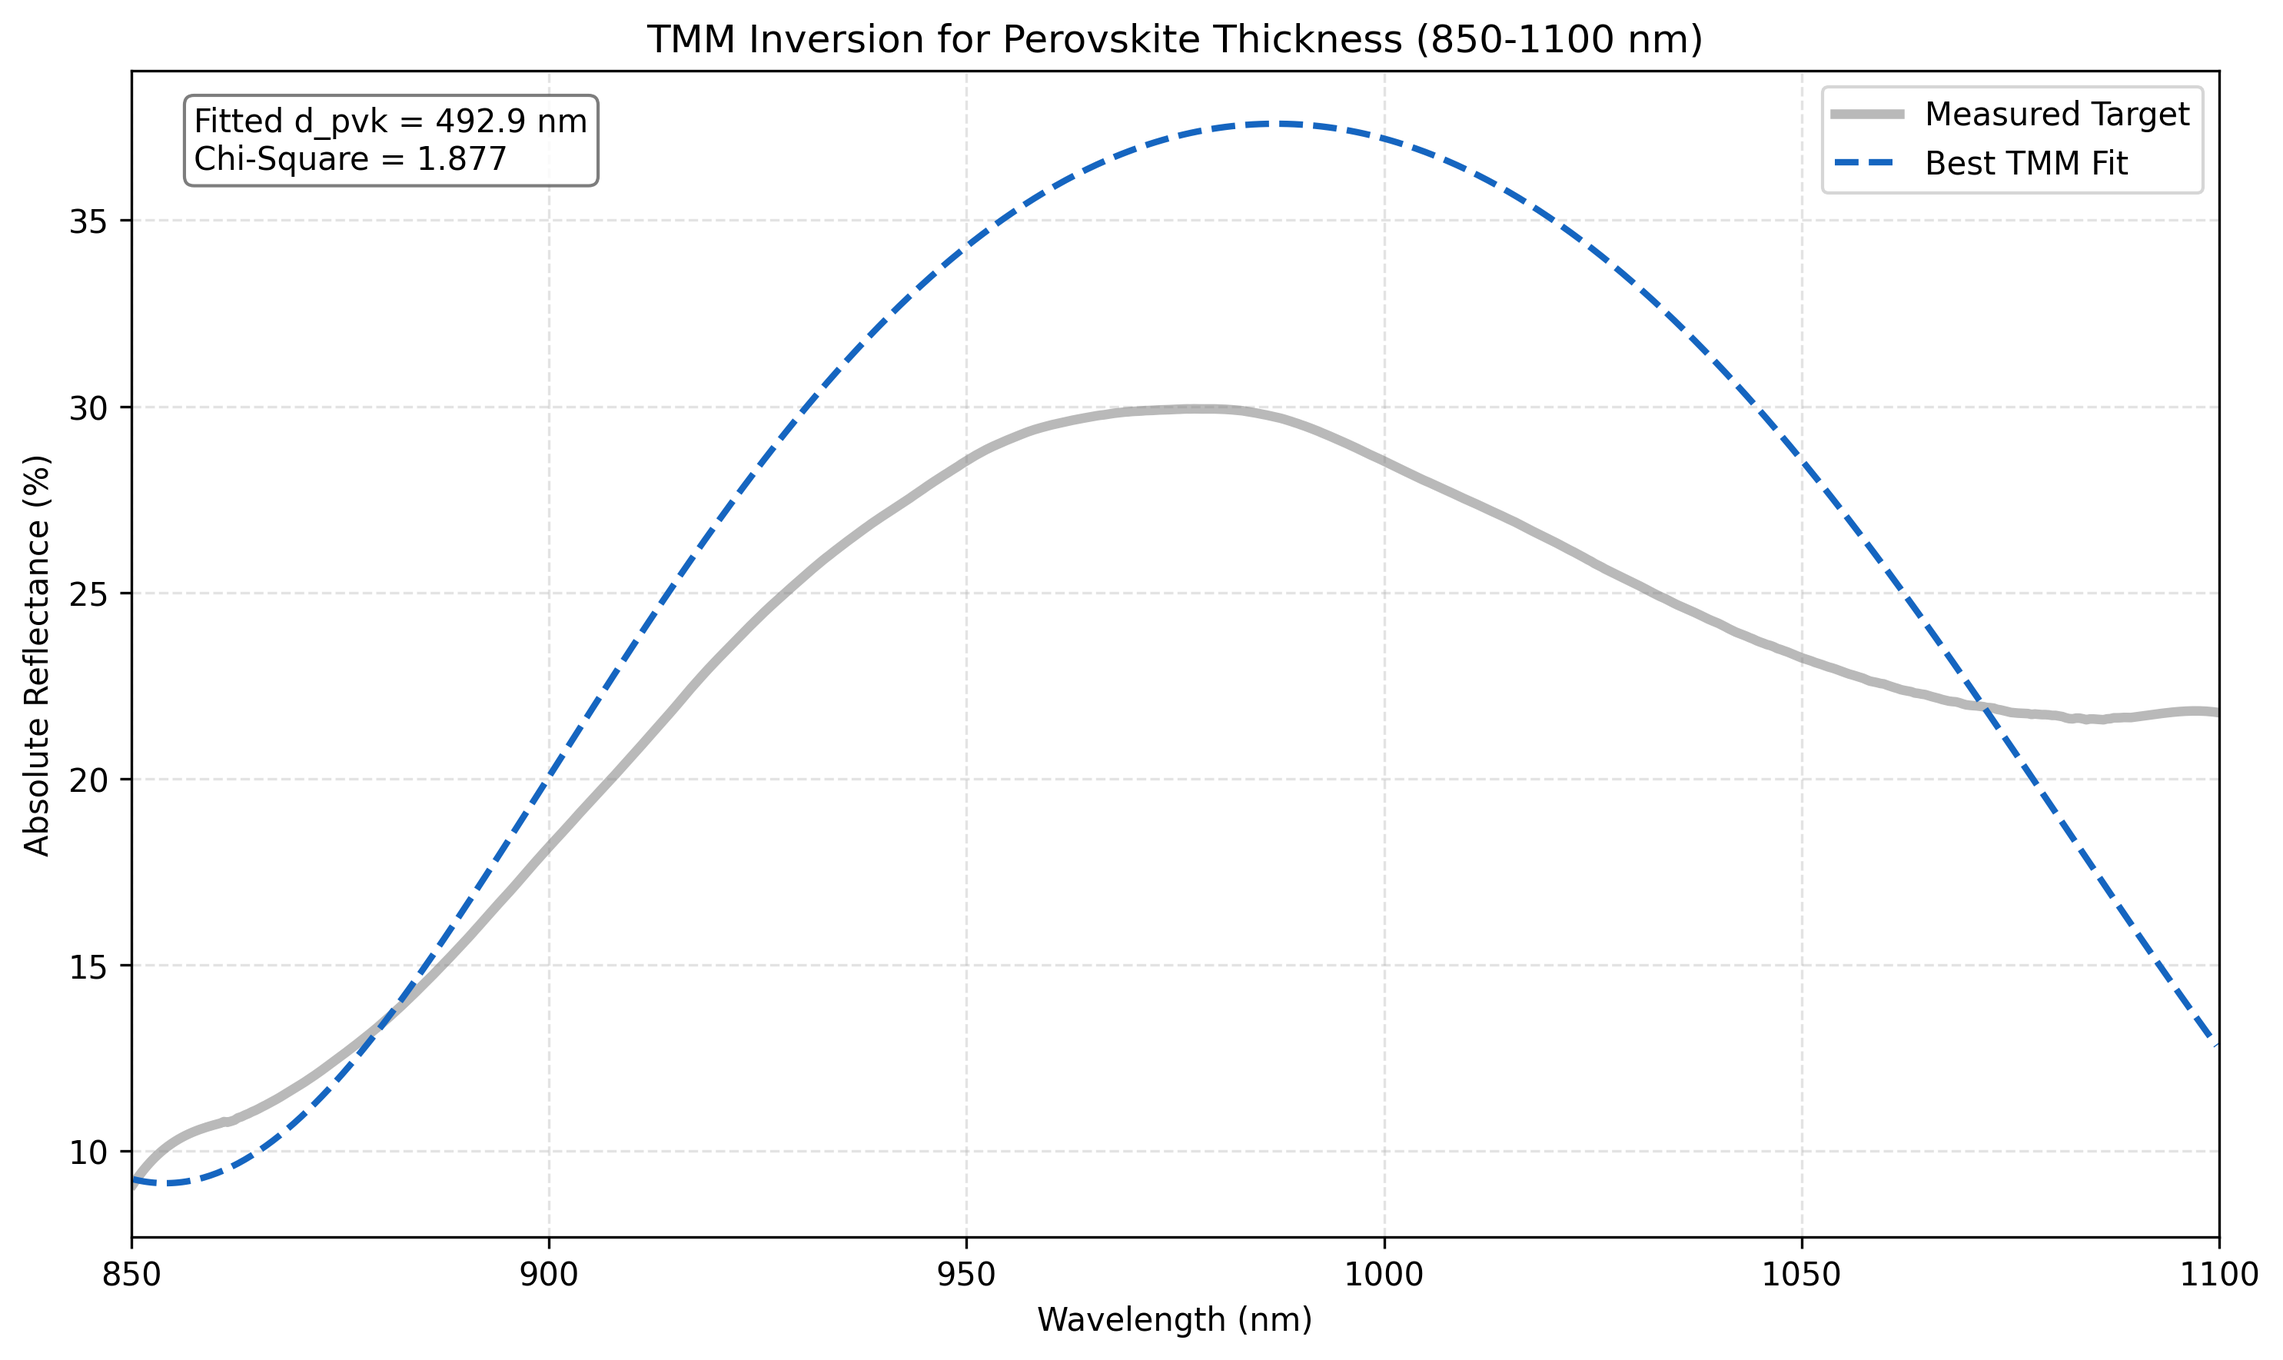
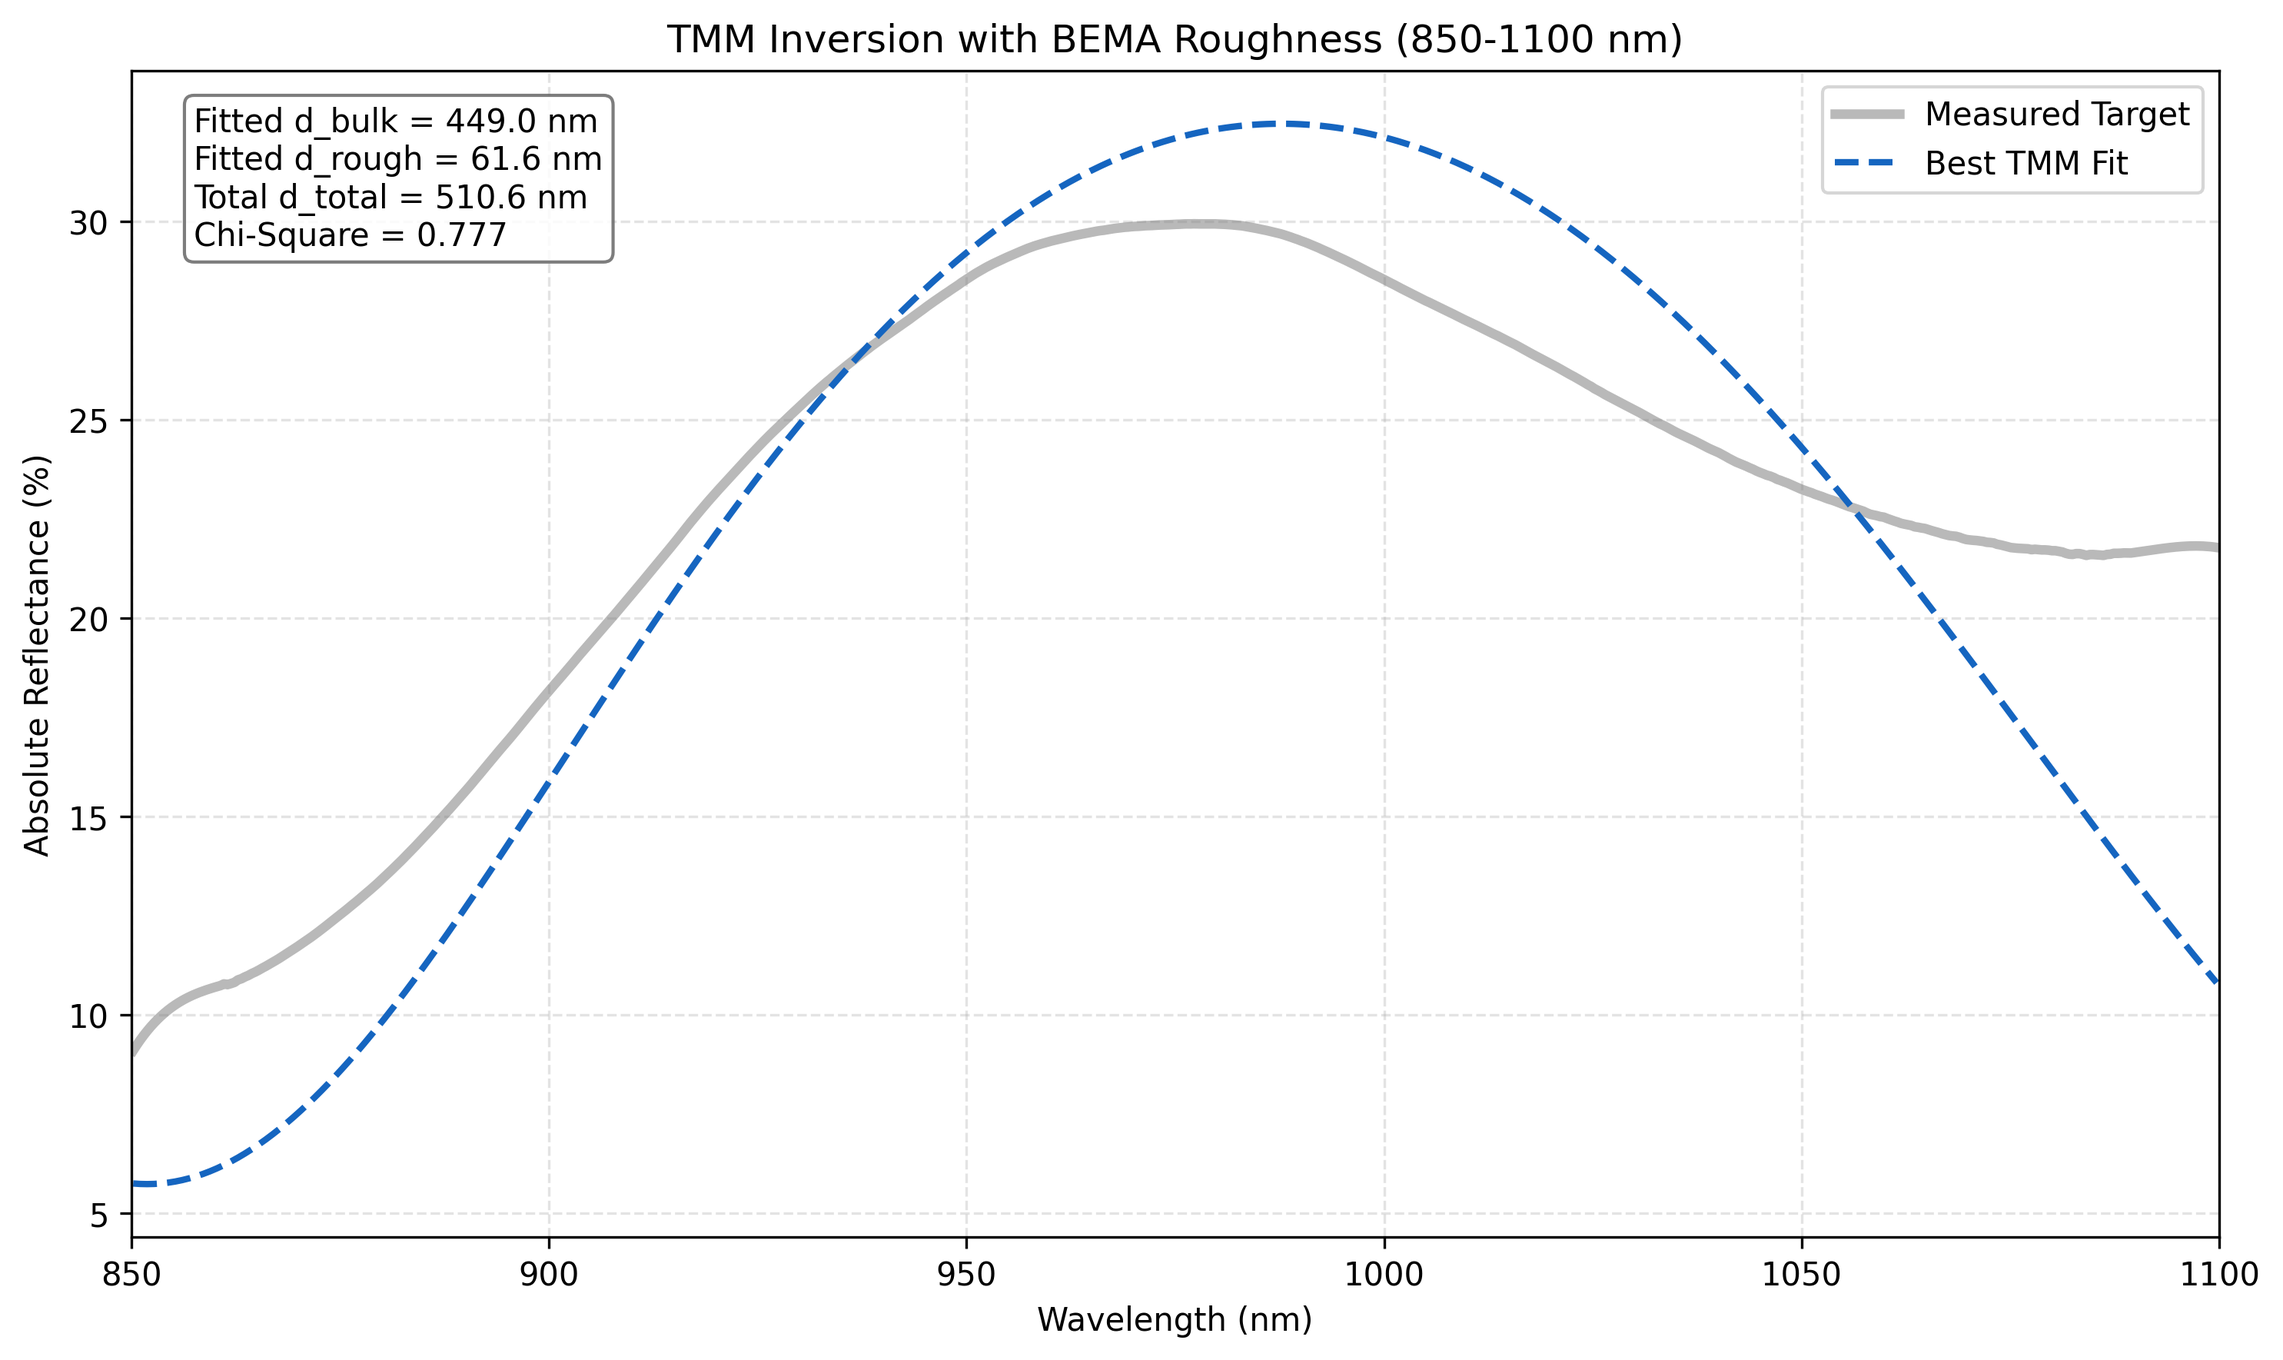
[Phase 02] 引入BEMA粗糙层并升级双参数反演

diff --git a/src/scripts/step02_tmm_inversion.py b/src/scripts/step02_tmm_inversion.py
@@ -7,9 +7,10 @@
 1. 目标曲线读取
 2. ITO 色散解析与插值
 3. PVK 外推 n-k 中间件加载与插值
-4. 厚玻璃非相干修正 + 相干薄膜 TMM
-5. lmfit 单参数厚度反演
-6. 结果绘图
+4. BEMA 表面粗糙度修正
+5. 厚玻璃非相干修正 + 相干薄膜 TMM
+6. lmfit 双参数厚度反演
+7. 结果绘图
 """
 
 from __future__ import annotations
@@ -40,9 +41,12 @@ SAM_THICKNESS_NM = 2.0
 NIOX_NK = 2.1 + 0.0j
 SAM_NK = 1.8 + 0.0j
 
-INITIAL_PVK_THICKNESS_NM = 500.0
-MIN_PVK_THICKNESS_NM = 400.0
-MAX_PVK_THICKNESS_NM = 650.0
+INITIAL_PVK_BULK_THICKNESS_NM = 480.0
+MIN_PVK_BULK_THICKNESS_NM = 400.0
+MAX_PVK_BULK_THICKNESS_NM = 650.0
+INITIAL_PVK_ROUGHNESS_THICKNESS_NM = 20.0
+MIN_PVK_ROUGHNESS_THICKNESS_NM = 0.0
+MAX_PVK_ROUGHNESS_THICKNESS_NM = 80.0
 
 
 def get_project_root() -> Path:
@@ -336,15 +340,27 @@ def build_pvk_interpolator(
     return get_pvk_nk
 
 
+def calc_bema_rough_nk(bulk_nk: np.ndarray) -> np.ndarray:
+    """计算 50/50 PVK-Air Bruggeman EMA 粗糙层复折射率。"""
+    eps1 = np.asarray(bulk_nk, dtype=np.complex128) ** 2
+    eps2 = 1.0 + 0.0j
+    b_term = 0.5 * (eps1 + eps2)
+    eps_eff = 0.5 * (b_term + np.sqrt(b_term**2 + 2.0 * eps1 * eps2))
+    return np.sqrt(eps_eff)
+
+
 def calc_macro_reflectance(
-    d_pvk_nm: float,
+    d_bulk_nm: float,
+    d_rough_nm: float,
     wavelength_nm: np.ndarray,
     get_ito_nk: Callable[[np.ndarray], np.ndarray],
     get_pvk_nk: Callable[[np.ndarray], np.ndarray],
 ) -> np.ndarray:
     """计算包含厚玻璃非相干修正的宏观反射率。
 
-    真实样品结构是 Air -> 1.1 mm Glass -> ITO -> NiOx -> SAM -> PVK -> Air。
+    真实样品结构是：
+    Air -> 1.1 mm Glass -> ITO -> NiOx -> SAM -> PVK_Bulk -> PVK_Roughness -> Air。
+
     关键点在于：1.1 mm 玻璃厚板绝不能直接放进相干 TMM 相位矩阵。
 
     原因是：
@@ -358,7 +374,8 @@ def calc_macro_reflectance(
     """
     wavelength = np.asarray(wavelength_nm, dtype=float)
     ito_nk = get_ito_nk(wavelength)
-    pvk_nk = get_pvk_nk(wavelength)
+    pvk_bulk_nk = get_pvk_nk(wavelength)
+    pvk_rough_nk = calc_bema_rough_nk(pvk_bulk_nk)
 
     r_coh = np.empty_like(wavelength, dtype=float)
 
@@ -368,10 +385,19 @@ def calc_macro_reflectance(
             ito_nk[index],
             NIOX_NK,
             SAM_NK,
-            pvk_nk[index],
+            pvk_bulk_nk[index],
+            pvk_rough_nk[index],
             AIR_INDEX + 0.0j,
         ]
-        d_list = [np.inf, ITO_THICKNESS_NM, NIOX_THICKNESS_NM, SAM_THICKNESS_NM, d_pvk_nm, np.inf]
+        d_list = [
+            np.inf,
+            ITO_THICKNESS_NM,
+            NIOX_THICKNESS_NM,
+            SAM_THICKNESS_NM,
+            d_bulk_nm,
+            d_rough_nm,
+            np.inf,
+        ]
         tmm_result = coh_tmm("s", n_list, d_list, 0.0, wl_nm)
         r_coh[index] = float(tmm_result["R"])
 
@@ -388,8 +414,9 @@ def residual(
     get_pvk_nk: Callable[[np.ndarray], np.ndarray],
 ) -> np.ndarray:
     """lmfit 残差函数。"""
-    d_pvk_nm = params["d_pvk"].value
-    r_model = calc_macro_reflectance(d_pvk_nm, wavelength_nm, get_ito_nk, get_pvk_nk)
+    d_bulk_nm = params["d_bulk"].value
+    d_rough_nm = params["d_rough"].value
+    r_model = calc_macro_reflectance(d_bulk_nm, d_rough_nm, wavelength_nm, get_ito_nk, get_pvk_nk)
     return r_model - r_target
 
 
@@ -397,7 +424,9 @@ def plot_fit_result(
     wavelength_nm: np.ndarray,
     r_target: np.ndarray,
     r_fit: np.ndarray,
-    d_best_nm: float,
+    d_bulk_nm: float,
+    d_rough_nm: float,
+    d_total_nm: float,
     chisqr: float,
     output_path: Path,
 ) -> None:
@@ -421,7 +450,12 @@ def plot_fit_result(
         label="Best TMM Fit",
     )
 
-    textbox = f"Fitted d_pvk = {d_best_nm:.1f} nm\nChi-Square = {chisqr:.3f}"
+    textbox = (
+        f"Fitted d_bulk = {d_bulk_nm:.1f} nm\n"
+        f"Fitted d_rough = {d_rough_nm:.1f} nm\n"
+        f"Total d_total = {d_total_nm:.1f} nm\n"
+        f"Chi-Square = {chisqr:.3f}"
+    )
     ax.text(
         0.03,
         0.97,
@@ -436,7 +470,7 @@ def plot_fit_result(
     ax.set_xlim(WAVELENGTH_MIN_NM, WAVELENGTH_MAX_NM)
     ax.set_xlabel("Wavelength (nm)")
     ax.set_ylabel("Absolute Reflectance (%)")
-    ax.set_title("TMM Inversion for Perovskite Thickness (850-1100 nm)")
+    ax.set_title("TMM Inversion with BEMA Roughness (850-1100 nm)")
     ax.grid(True, linestyle="--", alpha=0.35)
     ax.legend()
 
@@ -467,10 +501,16 @@ def main() -> None:
 
     params = Parameters()
     params.add(
-        "d_pvk",
-        value=INITIAL_PVK_THICKNESS_NM,
-        min=MIN_PVK_THICKNESS_NM,
-        max=MAX_PVK_THICKNESS_NM,
+        "d_bulk",
+        value=INITIAL_PVK_BULK_THICKNESS_NM,
+        min=MIN_PVK_BULK_THICKNESS_NM,
+        max=MAX_PVK_BULK_THICKNESS_NM,
+    )
+    params.add(
+        "d_rough",
+        value=INITIAL_PVK_ROUGHNESS_THICKNESS_NM,
+        min=MIN_PVK_ROUGHNESS_THICKNESS_NM,
+        max=MAX_PVK_ROUGHNESS_THICKNESS_NM,
     )
 
     result = minimize(
@@ -480,8 +520,10 @@ def main() -> None:
         method="leastsq",
     )
 
-    d_best_nm = float(result.params["d_pvk"].value)
-    r_best_fit = calc_macro_reflectance(d_best_nm, wavelength_nm, get_ito_nk, get_pvk_nk)
+    d_bulk_best_nm = float(result.params["d_bulk"].value)
+    d_rough_best_nm = float(result.params["d_rough"].value)
+    d_total_best_nm = d_bulk_best_nm + d_rough_best_nm
+    r_best_fit = calc_macro_reflectance(d_bulk_best_nm, d_rough_best_nm, wavelength_nm, get_ito_nk, get_pvk_nk)
 
     if np.any(~np.isfinite(r_best_fit)):
         raise ValueError("最佳拟合反射率中出现 NaN 或 Inf，说明模型数值计算失败。")
@@ -490,15 +532,19 @@ def main() -> None:
         wavelength_nm=wavelength_nm,
         r_target=r_target,
         r_fit=r_best_fit,
-        d_best_nm=d_best_nm,
+        d_bulk_nm=d_bulk_best_nm,
+        d_rough_nm=d_rough_best_nm,
+        d_total_nm=d_total_best_nm,
         chisqr=float(result.chisqr),
         output_path=output_path,
     )
 
-    print("TMM 厚度反演完成。")
+    print("TMM 双参数厚度反演完成。")
     print(f"目标曲线输入: {target_csv}")
     print(f"反演结果图片: {output_path}")
-    print(f"Fitted d_pvk = {d_best_nm:.3f} nm")
+    print(f"Fitted d_bulk = {d_bulk_best_nm:.3f} nm")
+    print(f"Fitted d_rough = {d_rough_best_nm:.3f} nm")
+    print(f"Fitted d_total = {d_total_best_nm:.3f} nm")
     print(f"Chi-Square = {float(result.chisqr):.6f}")
     print(f"拟合状态: success={result.success}, nfev={result.nfev}")
 

diff --git a/docs/PROJECT_STATE.md b/docs/PROJECT_STATE.md
@@ -10,7 +10,7 @@
 - 当前可用能力：
   - 已有 `step01_absolute_calibration.py`，可将样品与银镜原始计数转换为绝对反射率
   - 已有 `step01b_cauchy_extrapolation.py`，可基于 [LIT-0001] 的 `ITO/CsFAPI` 数字化折射率曲线生成 `750-1100 nm` 的 CsFAPI 扩展 `n-k` 中间件
-  - 已有 `step02_tmm_inversion.py`，可读取目标反射率、ITO 色散和 CsFAPI 扩展 `n-k` 中间件，执行单参数 PVK 厚度反演
+  - 已有 `step02_tmm_inversion.py`，可读取目标反射率、ITO 色散和 CsFAPI 扩展 `n-k` 中间件，执行包含 50/50 BEMA 粗糙度修正的双参数 `d_bulk + d_rough` 反演
   - 已有 `step02_digitize_fapi_optical_constants.py`，可从 `LIT-0001` 的 Fig. 2 原图数字化提取 FAPI 的 `n/κ` 曲线并输出 QA 图
   - 已有 `step02_digitize_csfapi_optical_constants.py`，可从 `LIT-0001` 的 Fig. 3 原图数字化提取 CsFAPI 的 `n/κ` 曲线并输出 QA 图
   - 已产出标准中间文件 `data/processed/target_reflectance.csv` 与 `data/processed/CsFAPI_nk_extended.csv`
@@ -141,7 +141,7 @@ TMM-interference-spectrum/
 ### 4.3 `step02_tmm_inversion.py`
 
 - 文件位置：`src/scripts/step02_tmm_inversion.py`
-- 主要职责：读取 `step01` 输出的目标反射率、ITO 色散和 `step01b` 生成的 CsFAPI 扩展 `n-k` 中间件，执行单参数厚度反演
+- 主要职责：读取 `step01` 输出的目标反射率、ITO 色散和 `step01b` 生成的 CsFAPI 扩展 `n-k` 中间件，执行包含 BEMA 表面粗糙度修正的双参数厚度反演
 
 输入：
 - `data/processed/target_reflectance.csv`
@@ -163,9 +163,11 @@ TMM-interference-spectrum/
 - ITO 厚度固定：`105 nm`
 - NiOx 厚度固定：`20 nm`
 - SAM 厚度固定：`2 nm`
-- PVK 为唯一反演参数
-- PVK 厚度搜索范围：`400-650 nm`
+- PVK 块体厚度 `d_bulk` 搜索范围：`400-650 nm`
+- PVK 表面粗糙层厚度 `d_rough` 搜索范围：`0-80 nm`
 - PVK 采用 `step01b` 生成的 CsFAPI 扩展 `n-k` 中间件，并通过线性插值映射到目标波长网格
+- 粗糙层采用 `50% PVK + 50% Air` 的 Bruggeman EMA 有效介质模型
+- 相干层堆栈为：`Glass -> ITO -> NiOx -> SAM -> PVK_Bulk -> PVK_Roughness -> Air`
 
 核心处理流程：
 - 读取目标绝对反射率
@@ -173,11 +175,12 @@ TMM-interference-spectrum/
 - 解析 ITO 的 `e1/e2` 数据并转为 `n + ik`
 - 构建 ITO 复折射率插值器
 - 构建 PVK 复折射率插值器
+- 根据块体 PVK 复介电常数计算 50/50 BEMA 粗糙层复折射率
 - 计算宏观反射率：
   - 玻璃前表面菲涅尔反射
-  - 玻璃后方薄膜堆栈相干 TMM
+  - 玻璃后方包含粗糙层的薄膜堆栈相干 TMM
   - 再按非相干强度级联公式合成总反射率
-- 使用 `lmfit` 的 `leastsq` 做单参数厚度反演
+- 使用 `lmfit` 的 `leastsq` 做双参数厚度反演
 - 输出最佳拟合图
 
 输出：
@@ -229,7 +232,7 @@ resources/digitized/phase02_fig3_csfapi_optical_constants_digitized.csv
 data/processed/target_reflectance.csv
 data/processed/CsFAPI_nk_extended.csv
 resources/ITO_20 Ohm_105 nm_e1e2.mat
-    -> step02_tmm_inversion.py
+    -> step02_tmm_inversion.py (CsFAPI 扩展 n-k -> BEMA 粗糙层修正 -> d_bulk + d_rough 双参数反演)
     -> results/figures/tmm_inversion_result.png
 
 reference/Khan.../images/b3c499f799...
@@ -246,8 +249,8 @@ reference/Khan.../images/885e29d3...
 
 1. `step01` 负责把原始计数校准成可用于物理建模的绝对反射率
 2. `step01b` 把 [LIT-0001] 数字化 CsFAPI 曲线转换成标准近红外 `n-k` 中间件
-3. `step02` 只消费标准中间文件，不再在脚本内部硬编码 PVK 常数折射率
-4. 当前脚本链已经具备“测量数据 -> 标准中间数据 + 文献外推中间数据 -> TMM 反演图表”的最小闭环
+3. `step02` 在消费标准 `n-k` 中间件后，进一步通过 50/50 BEMA 将 PVK-Air 表面粗糙度折算为有效介质层
+4. 当前脚本链已经具备“测量数据 -> 标准中间数据 + 文献外推中间数据 -> BEMA 修正 TMM 双参数反演图表”的最小闭环
 
 ## 6. Key Physical / Numerical Assumptions
 
@@ -260,7 +263,8 @@ reference/Khan.../images/885e29d3...
 - PVK 的近红外色散来源为 [LIT-0001] Fig. 3 的 `ITO/CsFAPI` 数字化 `n` 曲线，并通过 Cauchy 模型外推到 `1100 nm`
 - `750-1100 nm` 内强制采用 `k = 0`
 - `1000-1100 nm` 属于超出原始椭偏测量窗口的模型外推区
-- 反演当前仅对 `d_pvk` 一个参数进行拟合
+- 粗糙层采用 `50% PVK + 50% Air` 的 BEMA 有效介质
+- 反演当前同时拟合 `d_bulk` 与 `d_rough` 两个参数
 
 这些假设是理解结果与后续扩展的关键锚点；若后续有改动，必须同步更新本文件。
 
@@ -293,13 +297,13 @@ reference/Khan.../images/885e29d3...
 ### 7.3 当前反演模型参数自由度较低
 
 - 表现：
-  - 目前仅反演 PVK 厚度 `d_pvk`
+  - 当前仅反演 `d_bulk` 与 `d_rough`
   - ITO/NiOx/SAM 厚度与材料参数均固定
 - 影响：
-  - 单参数收敛不等于结构解释唯一
+  - 双参数收敛仍不等于结构解释唯一
   - 对模型误差与参数耦合的吸收能力有限
 - 当前状态：
-  - 适合作为基准闭环
+  - 已比单参数模型更能吸收表面粗糙度导致的振幅偏差
   - 不适合作为最终物理解译结论
 
 ### 7.4 图像数字化结果不是原始实验表
@@ -323,6 +327,16 @@ reference/Khan.../images/885e29d3...
   - “临时常数折射率”不再是主流程隐含假设
 - 当前状态：
   - 已解决
+
+### 7.6 BEMA 粗糙层升级直接用于压低理论振幅
+
+- 表现：
+  - 在相位已经基本对齐的前提下，平滑界面模型的理论振幅高于实测振幅
+- 影响：
+  - 引入 `PVK_Roughness` 有效介质层后，模型可通过顶部减反效应压低理论峰值，更接近实测约 `30%` 的振幅水平
+- 当前状态：
+  - 已纳入 `step02_tmm_inversion.py` 主流程
+  - 后续仍需结合拟合结果持续验证振幅改进是否稳定
 
 ## 8. Architecture Risks
 
@@ -366,7 +380,13 @@ reference/Khan.../images/885e29d3...
   - 当前将 `k` 在近红外全部强制为 `0`
   - 数字化误差会直接传递到 Cauchy 参数 `A, B`
 
-### 8.6 结果文件命名尚未 Phase 化
+### 8.6 BEMA 双参数反演存在参数相关性风险
+
+- `d_bulk` 与 `d_rough` 都会影响干涉振幅与相位，二者可能存在相关性
+- 因此双参数数值收敛不自动等价于唯一物理解
+- 当前升级可直接改善振幅匹配，但后续若用于定量结论，仍需通过更多先验或更多观测量约束参数空间
+
+### 8.7 结果文件命名尚未 Phase 化
 
 - 当前图像文件名尚未显式带上 `phaseXX`
 - 后续结果积累后，可能不利于多轮实验比较和回滚定位
@@ -379,21 +399,22 @@ reference/Khan.../images/885e29d3...
   - 新增 `step01b_cauchy_extrapolation.py`
   - 新增 `data/processed/CsFAPI_nk_extended.csv`
   - 新增 `results/figures/cauchy_extrapolation_check.png`
-  - 重构 `step02_tmm_inversion.py`，改为读取 CsFAPI 扩展 `n-k` 中间件
-  - 删除 `step02` 中的 PVK 常数折射率 smoke test 主流程依赖
+  - 重构 `step02_tmm_inversion.py`，改为执行包含 BEMA 粗糙层修正的双参数 `d_bulk + d_rough` 反演
+  - 删除 `step02` 中的平滑单层 `d_pvk` 主流程接口
 - 已验证结论：
   - 已成功从 [LIT-0001] Fig. 3 的 `ITO/CsFAPI` 数字化 `n` 曲线拟合 Cauchy 参数并外推到 `1100 nm`
-  - `step02` 已成功消费 `CsFAPI_nk_extended.csv` 并保持厚玻璃非相干修正与 LM 反演闭环
+  - `step02` 已成功消费 `CsFAPI_nk_extended.csv` 并保持厚玻璃非相干修正与 LM 双参数反演闭环
 - 仍待验证：
   - `1000-1100 nm` 外推段的物理可信度仍需后续用原始数据或独立测量交叉验证
   - 当前 `k=0` 假设在近红外是否足够严格，还需结合后续实验或文献继续审查
+  - `d_bulk` 与 `d_rough` 的相关性是否会影响最终物理解读，还需后续继续评估
 
 ## 10. Recommended Next Actions
 
 建议后续优先处理以下事项：
 
 1. 建立 `data/raw/`，并把 `test_data/` 中实际原始测量 CSV 迁移到规范目录
-2. 创建结构化反演结果输出文件，记录 `d_pvk`、`chi-square` 与外推参数 `A/B`
+2. 创建结构化反演结果输出文件，记录 `d_bulk`、`d_rough`、`chi-square` 与外推参数 `A/B`
 3. 将 `step01`/`step01b`/`step02` 中可复用逻辑下沉到 `src/core/`
 4. 建立 `docs/RESOURCE_INDEX.md`，说明 ITO、银镜基准、论文资料与数字化资源的来源和格式
 5. 建立 `README.md`，补齐项目运行入口、依赖安装和 Phase 概览
